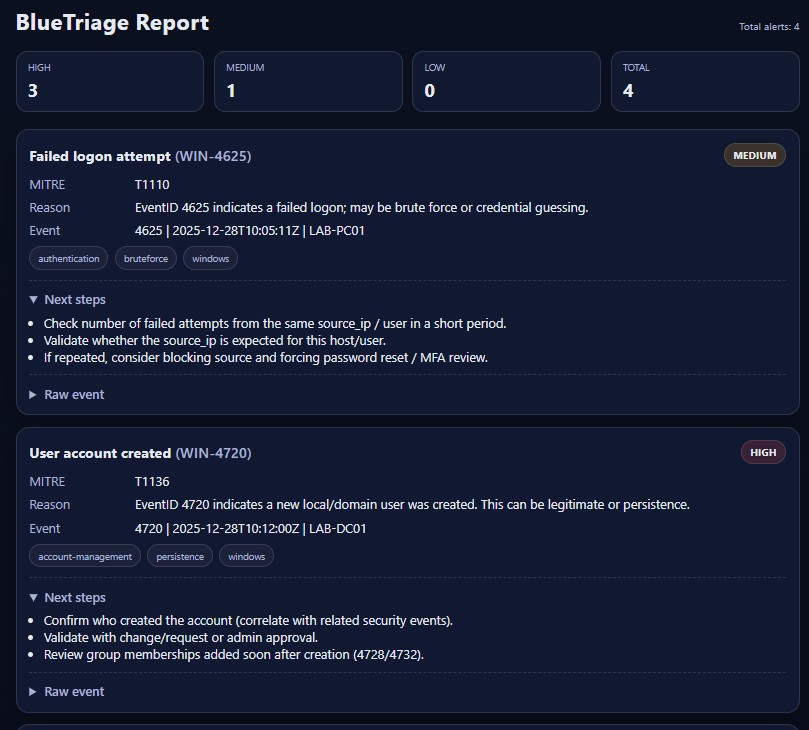
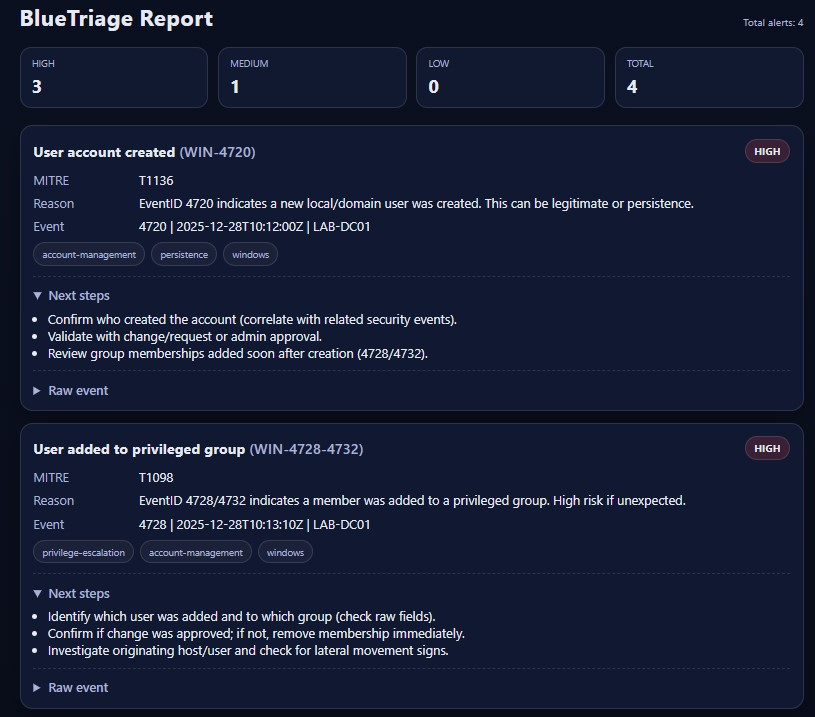
Sort alerts by severity in HTML report

diff --git a/src/bluetriage/report/render.py b/src/bluetriage/report/render.py
@@ -3,8 +3,15 @@ from pathlib import Path
 from jinja2 import Environment, FileSystemLoader, select_autoescape
 from ..models import Alert
 
+SEV_ORDER = {"high": 0, "medium": 1, "low": 2}
 
 def render_html(alerts: list[Alert], out_path: Path) -> None:
+    # Sort alerts by severity (high -> low)
+    alerts_sorted = sorted(
+        alerts,
+        key=lambda a: SEV_ORDER.get((a.severity or "low").strip().lower(), 99),
+    )
+
     templates_dir = Path(__file__).parent / "templates"
     env = Environment(
         loader=FileSystemLoader(str(templates_dir)),
@@ -12,7 +19,7 @@ def render_html(alerts: list[Alert], out_path: Path) -> None:
     )
     tpl = env.get_template("report.html.j2")
     html = tpl.render(
-        total_alerts=len(alerts),
-        alerts=[a.model_dump() for a in alerts],
+        total_alerts=len(alerts_sorted),
+        alerts=[a.model_dump() for a in alerts_sorted],
     )
     out_path.write_text(html, encoding="utf-8")
